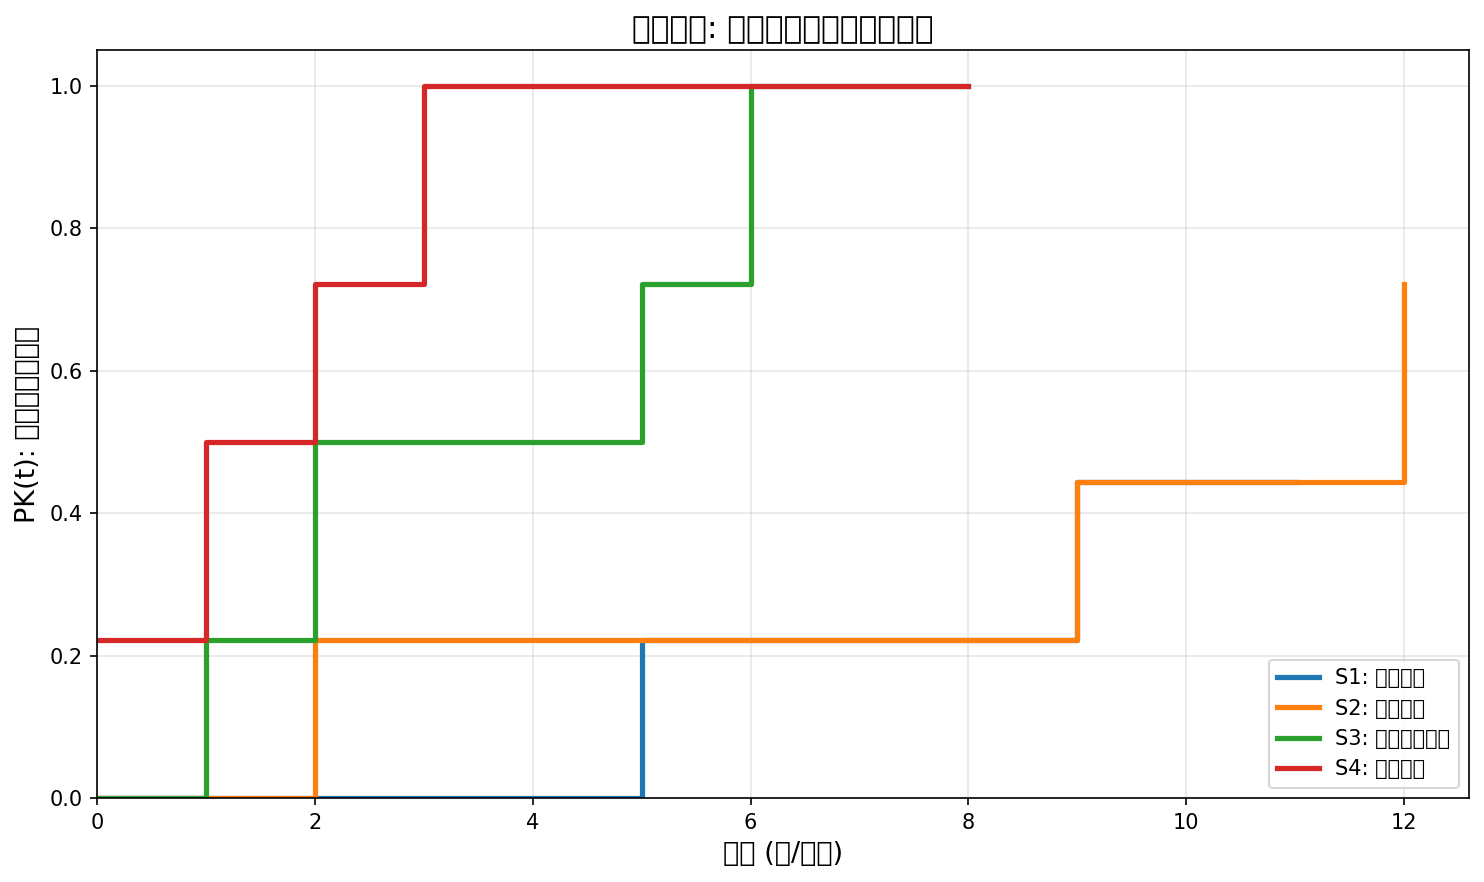
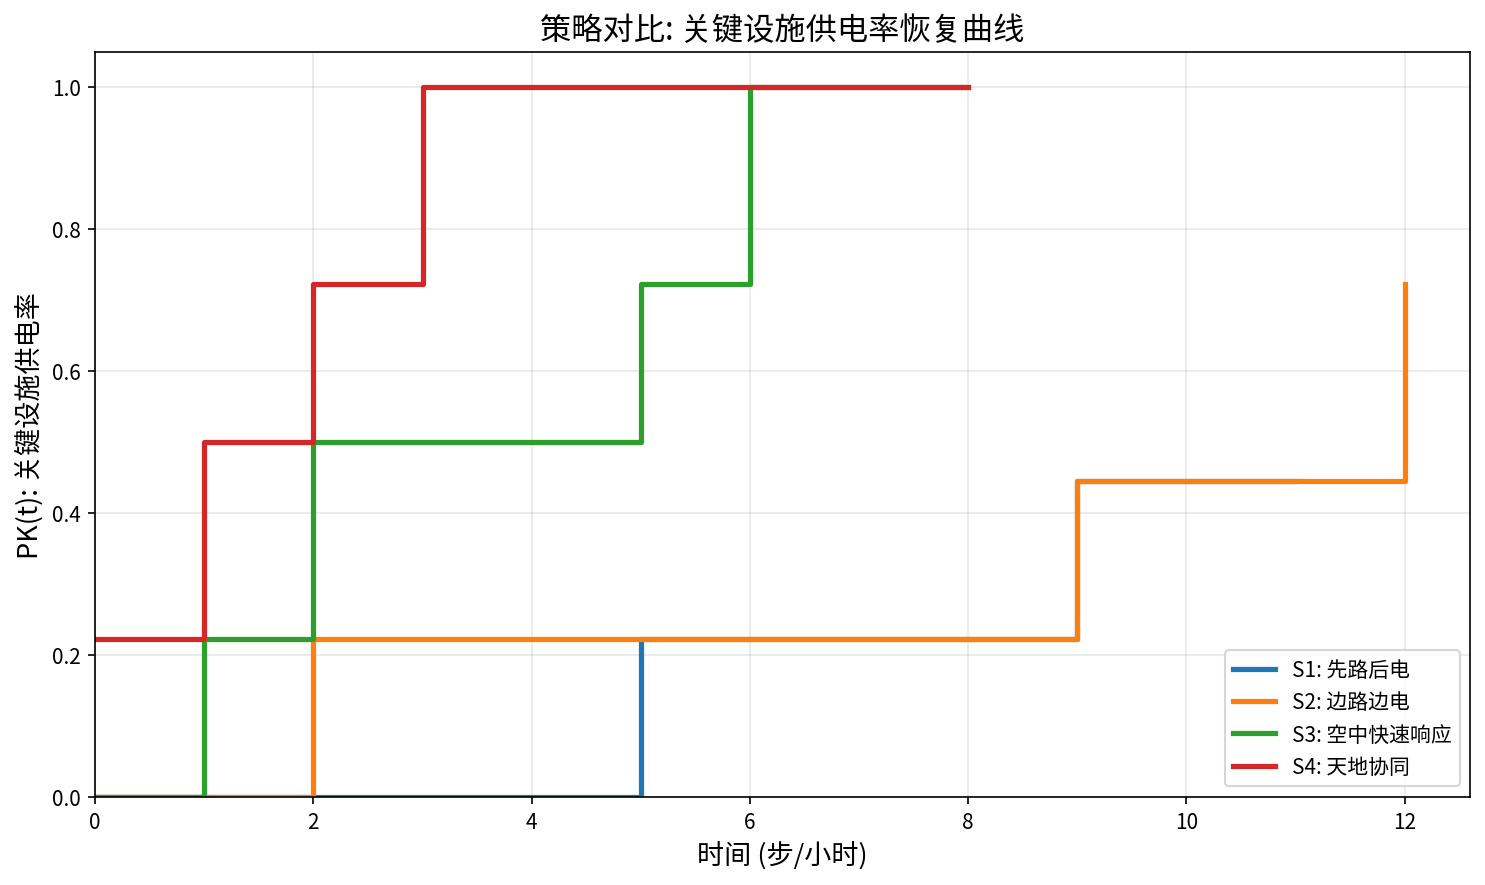
Fix Chinese font rendering in matplotlib charts
- Configure Noto Sans CJK JP as matplotlib font
- Set axes.unicode_minus=False for proper minus sign display
- Re-generated all 6 charts with correct Chinese labels
- Re-uploaded to imgbb with new URLs

diff --git a/experiments/run_experiment.py b/experiments/run_experiment.py
@@ -22,6 +22,14 @@ import matplotlib
 matplotlib.use("Agg")
 import matplotlib.pyplot as plt
 import matplotlib.ticker as mticker
+
+# Configure Chinese font support
+plt.rcParams["font.sans-serif"] = [
+    "Noto Sans CJK JP", "Noto Sans CJK SC", "Noto Sans CJK TC",
+    "WenQuanYi Micro Hei", "SimHei", "DejaVu Sans",
+]
+plt.rcParams["axes.unicode_minus"] = False
+
 import wandb
 
 ROOT = Path(__file__).resolve().parent.parent

diff --git a/experiments/experiment_report.md b/experiments/experiment_report.md
@@ -1,6 +1,6 @@
 # 交通-电力耦合网络灾后抢修调度对照实验报告 v2
 
-> 生成时间: 2026-03-06 | wandb 实验面板: https://wandb.ai/chaoyan/traffic-power-repair-sim/runs/6g26vwy2
+> 生成时间: 2026-03-06 | wandb 实验面板: https://wandb.ai/chaoyan/traffic-power-repair-sim/runs/ex7d1kdc
 
 ## 1. 实验概述
 
@@ -44,21 +44,21 @@
 
 ### 2.2 LSD恢复曲线
 
-![LSD恢复曲线对比](https://i.ibb.co/9kvjXFmy/lsd-recovery-curves.png)
+![LSD恢复曲线对比](https://i.ibb.co/60PY6N3R/lsd-recovery-curves.png)
 
 图中展示了四类策略下已恢复负荷 L(t) 的阶梯型变化。S4策略在早期即恢复较多关键负荷，
 累计收益(AUC)最高; S1策略恢复启动晚，前期平台期长。
 
 ### 2.3 关键设施供电率恢复曲线
 
-![PK恢复曲线对比](https://i.ibb.co/TBL8cbvV/pk-recovery-curves.png)
+![PK恢复曲线对比](https://i.ibb.co/N2LySHhC/pk-recovery-curves.png)
 
 PK(t) 反映关键设施（医院、安置点、指挥中心）的供电恢复进度。
 含空中支援的策略(S3/S4)能更早提升关键设施供电率。
 
 ### 2.4 AUC与工期对比
 
-![AUC与工期对比](https://i.ibb.co/7NRs8Bgy/auc-makespan-comparison.png)
+![AUC与工期对比](https://i.ibb.co/nMpdf41s/auc-makespan-comparison.png)
 
 AUC直接体现"越早恢复越好"的韧性目标。S4策略AUC最高，
 说明其在关键负荷的早期恢复方面优势最为明显。
@@ -80,7 +80,7 @@ AUC直接体现"越早恢复越好"的韧性目标。S4策略AUC最高，
 | 3.0 | 3800.0 | 1650.0 | 5750.0 | 7300.0 | S4 |
 
 
-![κ_walk敏感性分析](https://i.ibb.co/s9Ncvvj6/sensitivity-kappa.png)
+![κ_walk敏感性分析](https://i.ibb.co/bjHtB7hq/sensitivity-kappa.png)
 
 **发现**: 当κ_walk增大（徒步代价升高）时，依赖空中资源的S3/S4策略优势更为突出。
 
@@ -95,7 +95,7 @@ AUC直接体现"越早恢复越好"的韧性目标。S4策略AUC最高，
 | 严重中断(50%) | 3800.0 | 3850.0 | 5050.0 | 5550.0 | S4 |
 
 
-![天气窗敏感性分析](https://i.ibb.co/993p17Db/sensitivity-weather.png)
+![天气窗敏感性分析](https://i.ibb.co/MyFMMVhP/sensitivity-weather.png)
 
 **发现**: 天气中断越频繁，所有策略的AUC均下降，但S4天地协同策略的相对优势在中等中断条件下最为显著。
 
@@ -110,7 +110,7 @@ AUC直接体现"越早恢复越好"的韧性目标。S4策略AUC最高，
 | 4队(多资源) | 2750.0 | 4500.0 | 4850.0 | 7750.0 | S4 |
 
 
-![队伍编成敏感性分析](https://i.ibb.co/TqFC31P1/sensitivity-teams.png)
+![队伍编成敏感性分析](https://i.ibb.co/5W466WgV/sensitivity-teams.png)
 
 **发现**: 增加队伍数量能显著提升所有策略的AUC，但提升幅度在不同策略间存在差异。
 
